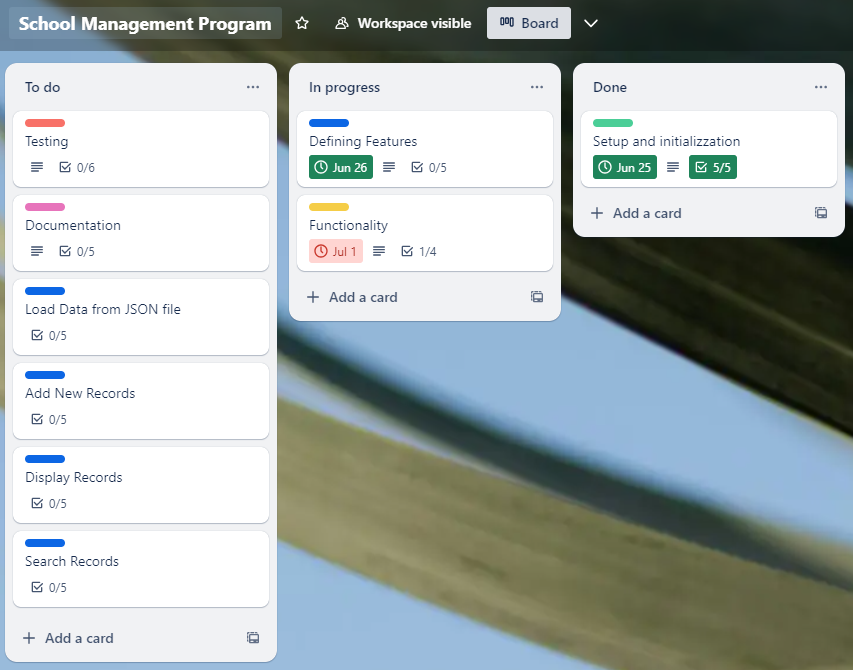
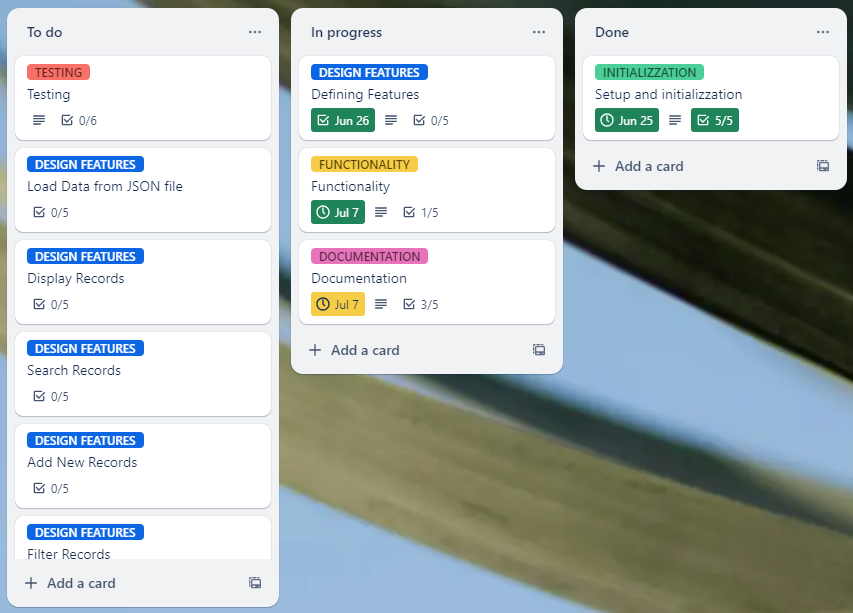
README.md updated

diff --git a/README.md b/README.md
@@ -238,7 +238,32 @@ The file_path is a constant but has an optional parameter if the user wants to p
 ![functionality checklist](./docs/trello-functionality_checklist.png)
 ![trello tracking](./docs/tracking2.png)
 
+### record_operation module
+This module consist of several functions and utility methods designed to manage records of students and teachers in a school system
 
+#### student_new_record() and teacher_new_record():
+- These functions prompt the user to enter information like name, last name, address, and either course (for students) or teaching subject (for teachers).
+- They create instances of Student or Teacher classes respectively and return the created object (Student or Teacher)
+
+#### student_object_to_dict(students) and teacher_object_to_dict(teachers):
+- These functions convert lists of Student or Teacher objects into lists of dictionaries in order to be written to a JSON file
+- Each dictionary represents an object's instance with these attributes (#ID, Name, Last name, Address, Course or Subject, Profile).
+
+#### menu_search_student_teacher(school, entity_profile):
+- This function displays a menu allowing users to search for either students or teachers by ID or name.
+- Based on the entity_profile (either Student.PROFILE or Teacher.PROFILE), it interacts with the school object to perform searches.
+- Depending on the search type chosen, it calls appropriate methods (find_student_by_id, find_student_by_name, find_teacher_by_id, find_teacher_by_name)
+
+#### update_delete_records(school, entity_profile, id, operation):
+- This function updates or deletes student or teacher records based on the operation parameter (update or delete).
+-Depending on the entity_profile (student or teacher), it calls methods on the school object (student_update, delete_student, teacher_update, delete_teacher) to perform the requested operation.
+
+#### menu_update_delete(school, entity_profile, id):
+- This function displays a sub-menu allowing users to update or delete a student's or teacher's record.
+- Based on the entity_profile and id provided, it interacts with the school object to perform update or delete operations (update_delete_records function).
+
+![feature add new records](./docs/trello-add_new_records.png)
+![trello tracking plan](./docs/tracking3.png)
 
 ### 3. School Class
 This School class manages collections of Student and Teacher objects, providing methods for display, search, update, deletion, and filtering based on course or subject.
@@ -258,10 +283,13 @@ This School class manages collections of Student and Teacher objects, providing 
 - Returns True if student is found, False otherwise.
 
 #### find_student_by_name(student_name)
-- Finds students by its name.
+- Finds student by its name.
 - Iterates through self.students list and compares name attribute with the given name as parameter
 - Prints student information if found and returns True, along with a list of IDs if multiple matches are found. (in case of namesakes)
+- It handles scenarios where multiple records might match the search criteria (id could be a single integer or a list of integers) in the case of namesakes. In such cases, it checks the type of id: if it is an integer, it is passed directly to the update_delete function. If it is a list, the function prompts the user to confirm the id due to potential namesakes."
 - Returns False if no students are found with the given name.
+
+![find student by name](./docs/flowchart_find_student_by_name.png)
 
 #### student_update(id)
 - Updates a student's information based on the given ID
@@ -296,3 +324,8 @@ This School class manages collections of Student and Teacher objects, providing 
 - Prints a list of all unique subjects taught by teachers.
 - Uses a set variable to store unique subjects.
 - Prints each subject and returns True if subjects are found; otherwise, returns False.
+
+![Filter records](./docs/trello-filter_records.png)
+![Search records](./docs/trello-search_record.png)
+![list subject_course](./docs/trello-list_course_subject.png)
+![trello tracking plan](./docs/tracking5.png)
